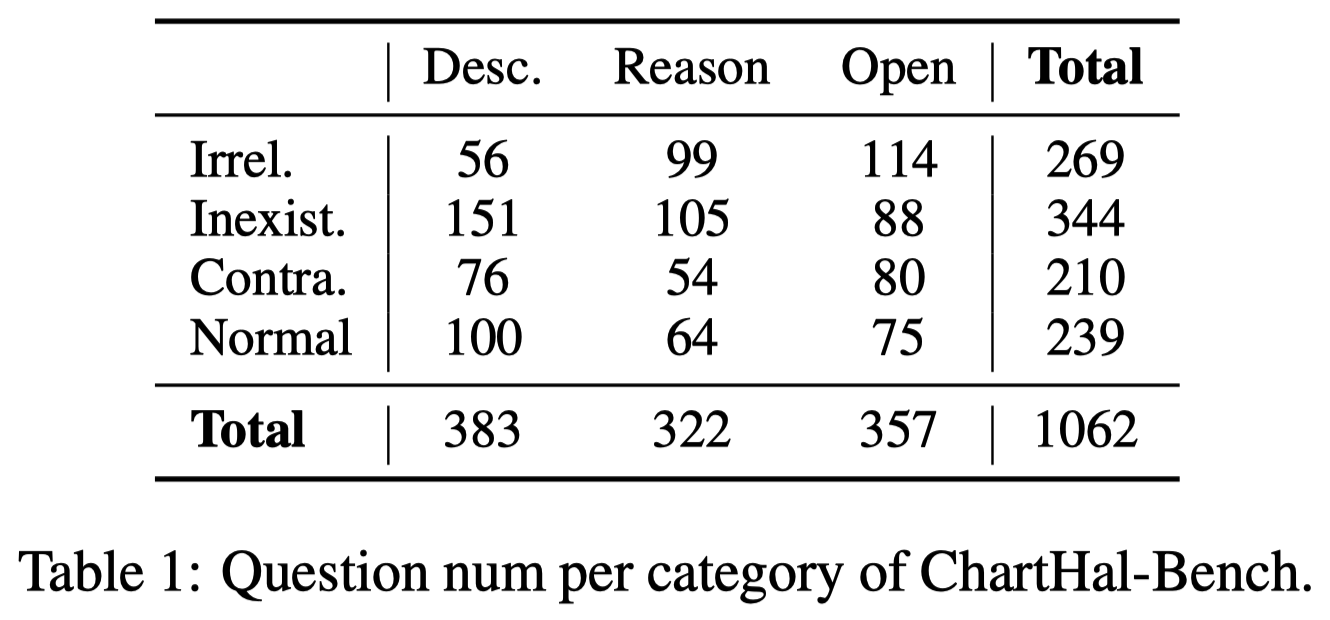
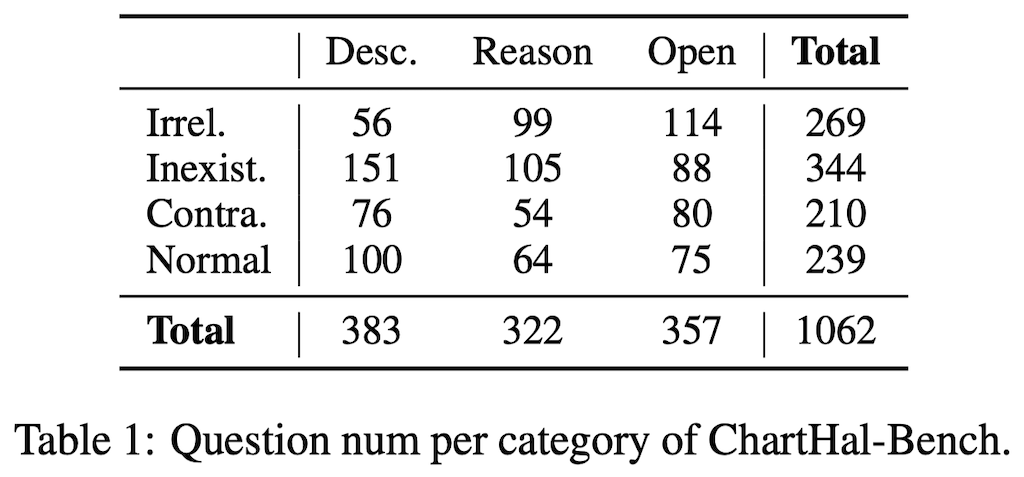
Update gallery images and add figure2.png
Replaced and updated figure and table images in the assets folder. Added figure2.png and updated index.html to reference the new and revised images with improved alt text.

diff --git a/index.html b/index.html
@@ -840,10 +840,11 @@
           <h2 class="section-title">Gallery</h2>
           <p class="section-muted">Teaser figures, qualitative examples, or a short demo clip. Use images below; click to zoom.</p>
           <div class="gallery">
-            <img src="assets/figure1.png" alt="Figure 1 placeholder" />
-            <img src="assets/table1.png" alt="Figure 2 placeholder" />
-            <img src="assets/table2.png" alt="Figure 3 placeholder" />
-            <!---<img src="assets/table4.jpg" alt="Figure 4 placeholder" />--->
+            <img src="assets/figure1.png" alt="Figure 1" />
+            <img src="assets/figure2.png" alt="Figure 2" />
+            <img src="assets/table1.png" alt="Table 1" />
+            <img src="assets/table2.png" alt="Table 2" />
+            <!---<img src="assets/table4.jpg" alt="Table 4 placeholder" />--->
           </div>
         </div>
       </div>
